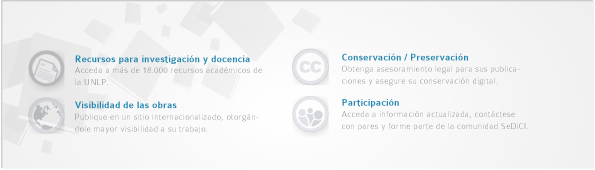
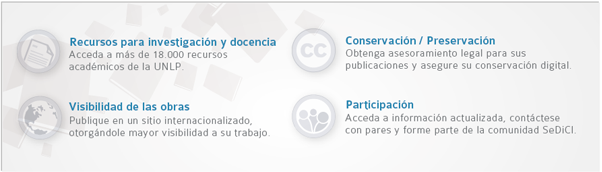
Mas modificaciones por el rediseño del home

diff --git a/xmlui/src/main/webapp/themes/Sedici2/lib/css/style.css b/xmlui/src/main/webapp/themes/Sedici2/lib/css/style.css
@@ -210,7 +210,8 @@ font-weight:bold;
 	padding-top: 70px;
 	padding-left: 20px;
 	padding-right: 20px;
-	background-color: #E4F2F9;
+	background-image: url("../../images/fondo_repeat_izquierda.png");
+	background-repeat: repeat-x;
 }
 
 #ds-body {
@@ -219,6 +220,7 @@ font-weight:bold;
 	float: left;
 	margin-left: 30px;
 	margin-right: 30px;
+	margin-top: 20px;
 }
 
 #ds-right-section {
@@ -1785,12 +1787,12 @@ div.primary > ul > li > ul > li.community > div.artifact-description a {
 	display:block; 
 	font: 13px Tahoma, Sans-serif;
 	margin-top: -30px;
-	margin-left: 322px;
+	margin-left: 291px;
+	background: url("../../images/fondo_transparente.png") repeat scroll 0 0 transparent;
 }
 #topNav ul { 
 	padding:0; 
 	margin:0;
-	background: #FFFFFF;
 }
 #topNav li { 
 	position:relative; 
@@ -1839,8 +1841,7 @@ div.primary > ul > li > ul > li.community > div.artifact-description a {
 #topNav > ul {
 	padding: 0px; 
 	position:relative;
-/* 	left:40px; */
-	background-repeat:repeat-x;
+	margin-left: 31px;
 }
 #topNav a:visited {
 }
@@ -1871,66 +1872,42 @@ border-radius:5px;
 /*login*/
 
 #ds-user-box {
-    color: #08597c;
+    color: #3698C7;
 	padding: 10px;
-	border: 1px solid #D4EEFA;
-	border-radius: 3px;
+	border: 1px solid #E9EFFB;
+	margin: 5px 0px;
+	font-size: 11px;
 }
 
-#ds-user-box h1{
-font-size:12px;
-/*color:#1b86b4;*/
-color:black;
-font-weight:normal;
-margin-bottom:3px;
-}
-
-#ds-user-box h2{
-font-size:15px;
-color:#244453;
-width:160px;
-text-align:left;
+#ds-user-box h2 {
+	font-size: 15px;
 }
 
 #div-menu-lateral-cuenta-superior-derecho {
-float:right;
-position:absolute;
-right:12px;
+	float:right;
+	position:absolute;
+	right:12px;
 }
 
 #div-menu-lateral-cuenta-superior-izquierdo {
-float:left;
+	float: left;
 }
 
 #div-menu-lateral-cuenta-superior {
-font-size:12px;
-float:left;
-clear:both;
-display:block;
-border-bottom:1px dashed white;
-padding-bottom:8px;
 }
 
 #div-menu-lateral-cuenta-inferior {
-clear:both;
-padding:0px;
-margin:0px;
-/*background-color:#e6f4ff;*/
-padding:10px 3px 3px 3px;
-text-align:left;
+	clear: both;
+	padding: 0px;
 }
-
+#ds-user-box ul {
+	margin: 0px;
+}
 #ds-user-box ul li{
-list-style-type:none;
-position:relative;
-left:-30px;
 }
-
-#ds-user-box ul li a:hover{
-text-decoration:underline;!important
-color:#000000;!important
+#ds-user-box ul a:hover{
+	color: #000000;
 }
-
 #div-menu-lateral-cuenta-superior a:hover{
     color: red;
 	text-decoration:none;
@@ -2832,16 +2809,18 @@ list-style-type:none;
 
 #home_feed ul li a,
 #home_envios_recientes ul li a{
-padding:0px;
-text-decoration:none;
-font-size:12px;
+	padding:0px;
+	text-decoration:none;
+	font-size:12px;
+	display: block;
+	padding-left: 40px;
 }
 
 .news_date  {
     color: #A4A4A4;
     font-size: 12px;
     font-weight: bold;
-    left: -10px;
+    float: left;
     position: relative;
 }
 
@@ -3232,14 +3211,17 @@ table.detailtable td:nth-child(2){
 
 #home_main_communities {
 	margin-bottom: 30px;
+	background-image: url("../../images/fondo_repeat_derecha.png");
+	background-repeat: repeat-x;
 }
 
 h1.communities_header {
 	color: #FFFFFF;
 	font-size:12px;
 	background-color: #478CB7;
-	padding: 4px 5px 3px 10px;
+	padding: 6px 5px 6px 10px;
 	font-weight: normal;
+	margin-bottom: 10px;
 }
 .community_icon_container {
 	margin-bottom: 10px;
@@ -3248,11 +3230,9 @@ h1.communities_header {
 	background-color: #e3f1f9;
 	color: #398db3;
 	-moz-border-radius:5px;
-	font-size:12px;
-	font-weight:regular;
 }
 .community_icon_container a {
-	color:#e79011;
+	color: #000000;
 	font-size:12px;
 	font-weight:regular;
 	padding: 5px 5px 5px 95px;
@@ -3262,10 +3242,10 @@ h1.communities_header {
 	min-height: 60px;
 }
 .community_icon_container h2 {
-	font-size: 14px;
+	font-size: 11px;
 }
 .community_icon_container p {
-	color: #a4a4a4;
+	font-size: 11px;
 	margin: 0px;
 }
 #icono_tesis a {
